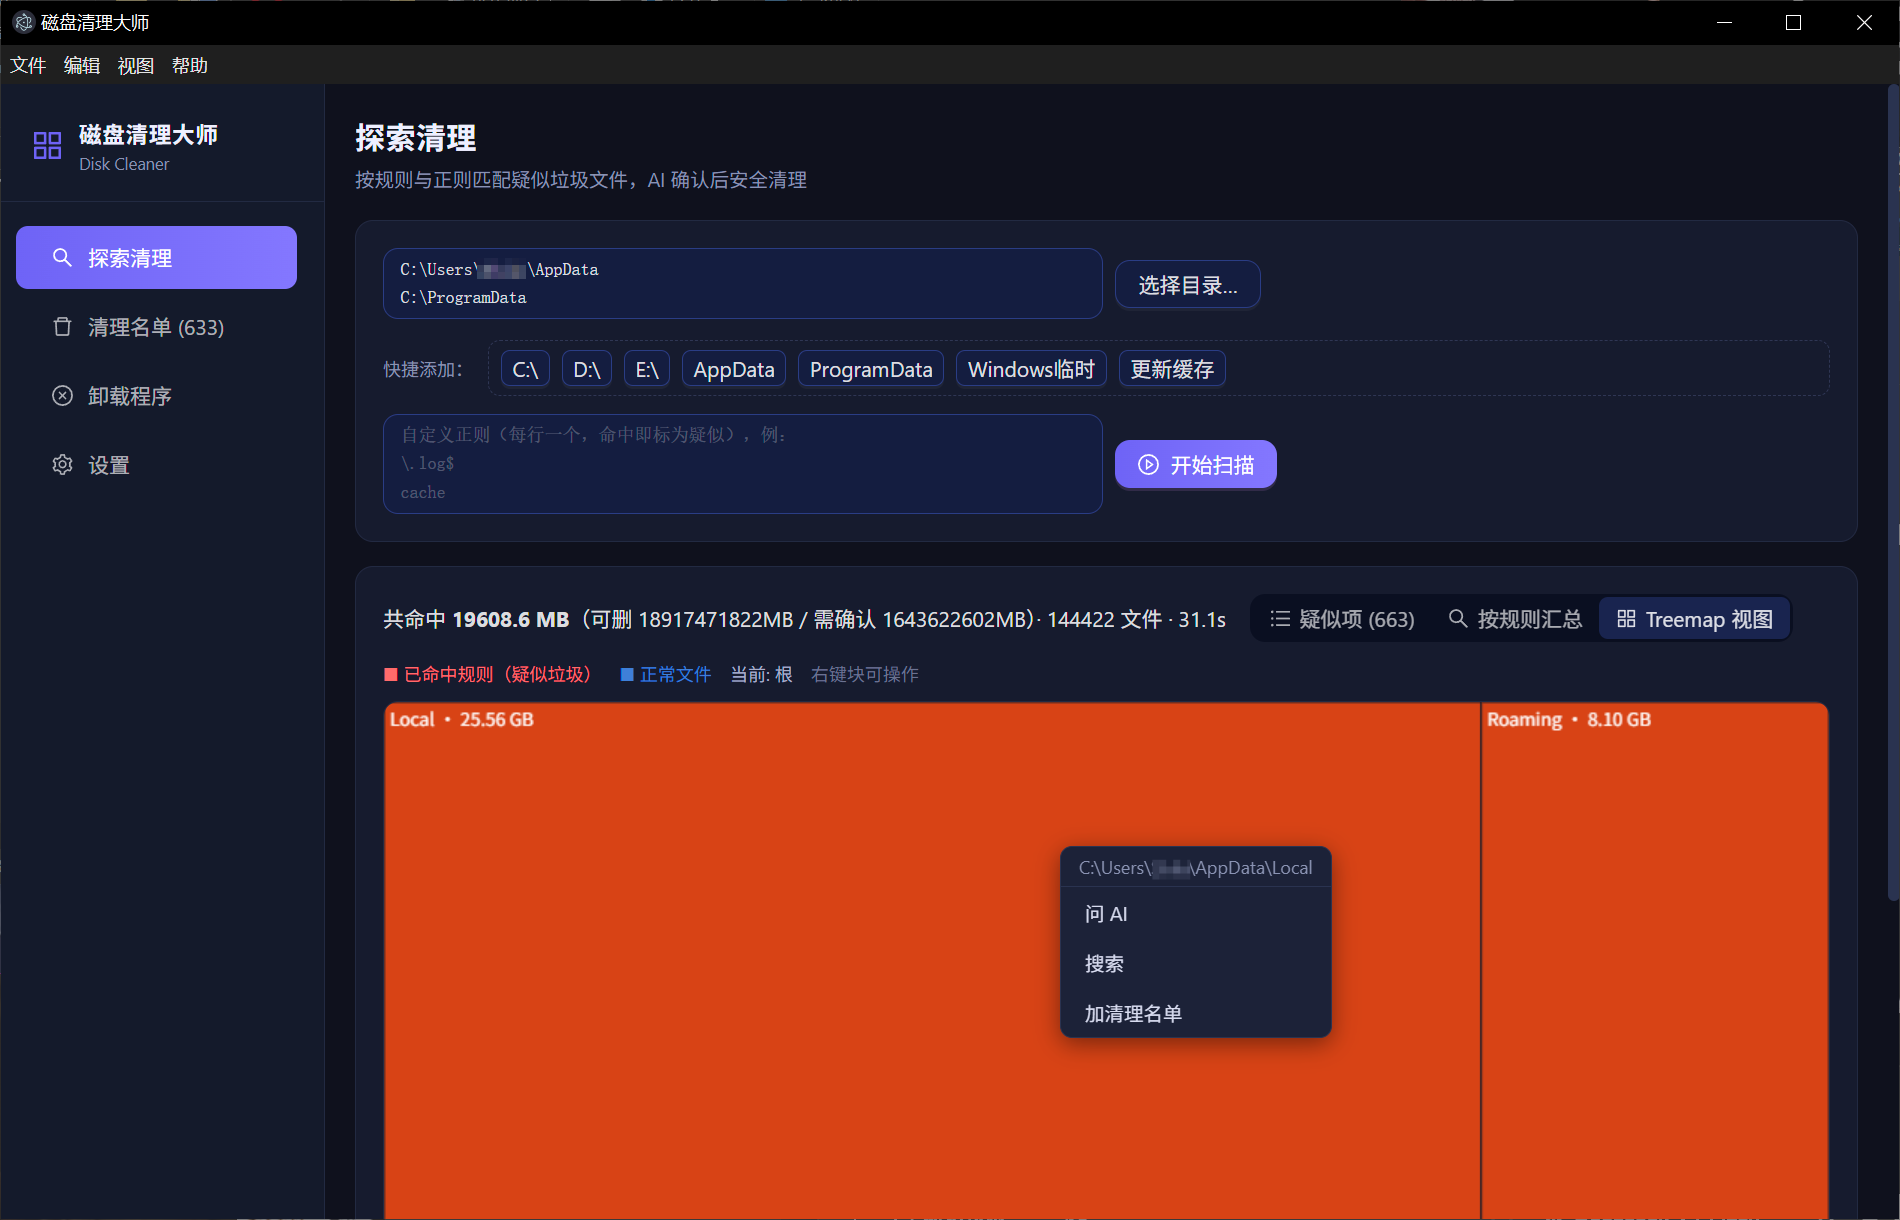
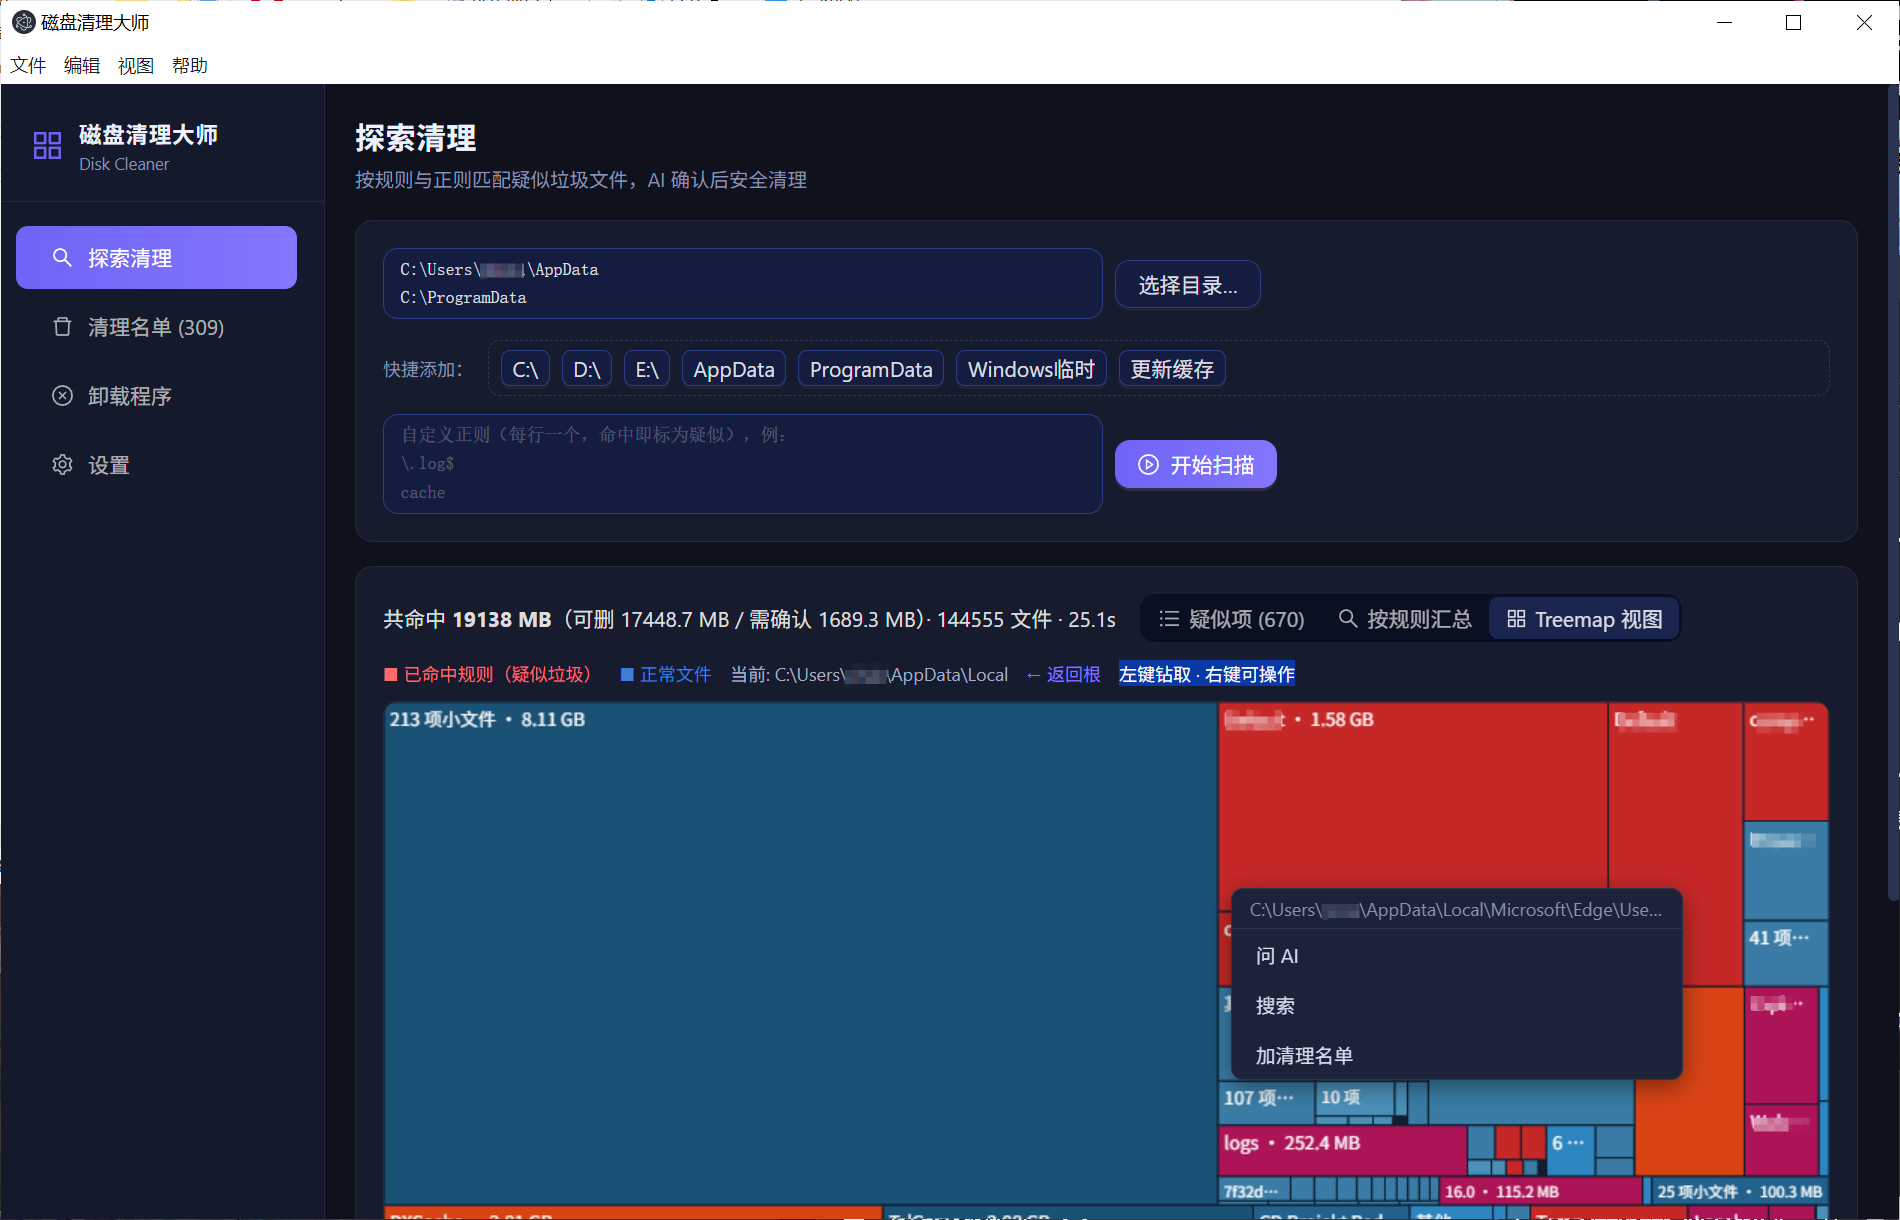
docs: 更新扫描页 + 卸载页截图（同步 v1.0.2 实际数据）

diff --git a/README.md b/README.md
@@ -86,7 +86,7 @@
 ## 界面预览
 
 ### 探索清理 · Treemap 磁盘热力图
-> 实测数据：共命中 **19 608.6 MB**（可删 18 917 / 需确认 1 643）· **144 422** 文件 · **31.1s** · **633** 疑似项
+> 实测数据：共命中 **19 138 MB**（可删 **17 448.7 MB** / 需确认 **1 689.3 MB**）· **144 555** 文件 · **25.1s** · **670** 疑似项
 > 红色 = 命中规则的疑似垃圾，蓝色 = 正常文件；点击钻取，右键菜单（问 AI / 搜索 / 加名单）
 
 ![扫描页 — Treemap 磁盘热力图](docs/screenshots/scan.png)
